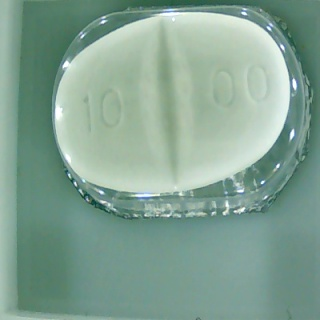
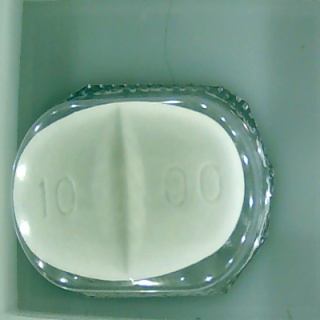
fix rounded corners of pill image

diff --git a/gui.py b/gui.py
@@ -1,7 +1,7 @@
 from tkinter import Tk, Canvas, PhotoImage, Text, Scrollbar, Frame, END, Button
 import ttkbootstrap as tb
 from ttkbootstrap.scrolled import ScrolledText
-from PIL import Image, ImageTk
+from PIL import Image, ImageDraw, ImageTk
 from pathlib import Path
 import time
 import tkinter as tk
@@ -284,49 +284,32 @@ def show_pill_information_frame(root, pill_info):
     pill_info_widget.configure(state='disabled', highlightthickness=0, padx=4, pady=3)
     pill_info_widget.place(x=90, y=widget_y)  
     
-
-    # def update_pill_info(pill_info):
-    #     global pill_info_widget_ctr
-    #     if pill_info_widget_ctr > 0:
-    #         pill_info_widget.delete("1.0", END)  # Clear previous content
-    #         pill_info_widget = ScrolledText(root, wrap="word", font=("Koulen", 14), width=40, height=6, autohide=True)
-    #     else:
-    #         pill_info_widget_ctr += 1
-    #         pill_info_widget = ScrolledText(root, wrap="word", font=("Koulen", 14), width=40, height=6, autohide=True)
-    #     updated_pill_info = "Dosage: {}mg\nSpecial Instruction: {}\nPossible side effects: {}\n".format(pill_info[1], pill_info[2], pill_info[3])
-    #     pill_info_widget.insert("1.0", updated_pill_info)
-    #     pill_info_widget.place(x=100, y=155)
-            
-    # update_pill_info(pill_info)
-    
-    # Load the image using PIL
-    pil_image = Image.open("/home/pi/capstone/pill-identification/image.jpg")  # Replace "your_image_file.jpg" with the path to your image file
-    # pil_image = Image.open(r"E:\pill-identification\image.jpg")  # Replace "your_image_file.jpg" with the path to your image file
-    # Convert PIL image to Tkinter-compatible format
-    image = ImageTk.PhotoImage(pil_image)
-
-    # canvas.create_rectangle(
-    #     573.0,
-    #     221.0,
-    #     718.0,
-    #     404.0,
-    #     fill="#D9D9D9",
-    #     outline=""
-    # )
-
+    # Open the image
     pil_image = Image.open("/home/pi/capstone/pill-identification/debug.jpg")
-    # pil_image = Image.open(r"E:\pill-identification\debug.jpg")
+
     # Resize the image
-    new_width = 160
-    new_height = 160
+    new_width = 170
+    new_height = 170
     resized_image = pil_image.resize((new_width, new_height))
-    image = ImageTk.PhotoImage(resized_image)
-    
-    canvas.image = image  # Save a reference to prevent garbage collection
+
+    # Create a mask for rounded corners
+    mask = Image.new("L", (new_width, new_height), 0)
+    draw = ImageDraw.Draw(mask)
+    draw.rounded_rectangle((0, 0, new_width, new_height), fill=255, radius=15)
+
+    # Apply the mask to the image
+    rounded_image = Image.new("RGBA", (new_width, new_height), 0)
+    rounded_image.paste(resized_image, (0, 0), mask)
+
+    # Convert the rounded image to PhotoImage
+    rounded_photo = ImageTk.PhotoImage(rounded_image)
+
+    # Display the rounded image on canvas
+    canvas.image = rounded_photo  # Save a reference to prevent garbage collection
     canvas.create_image(
         650,
-        262,
-        image=image
+        257,
+        image=rounded_photo
     )
     
     root.resizable(False, False)
